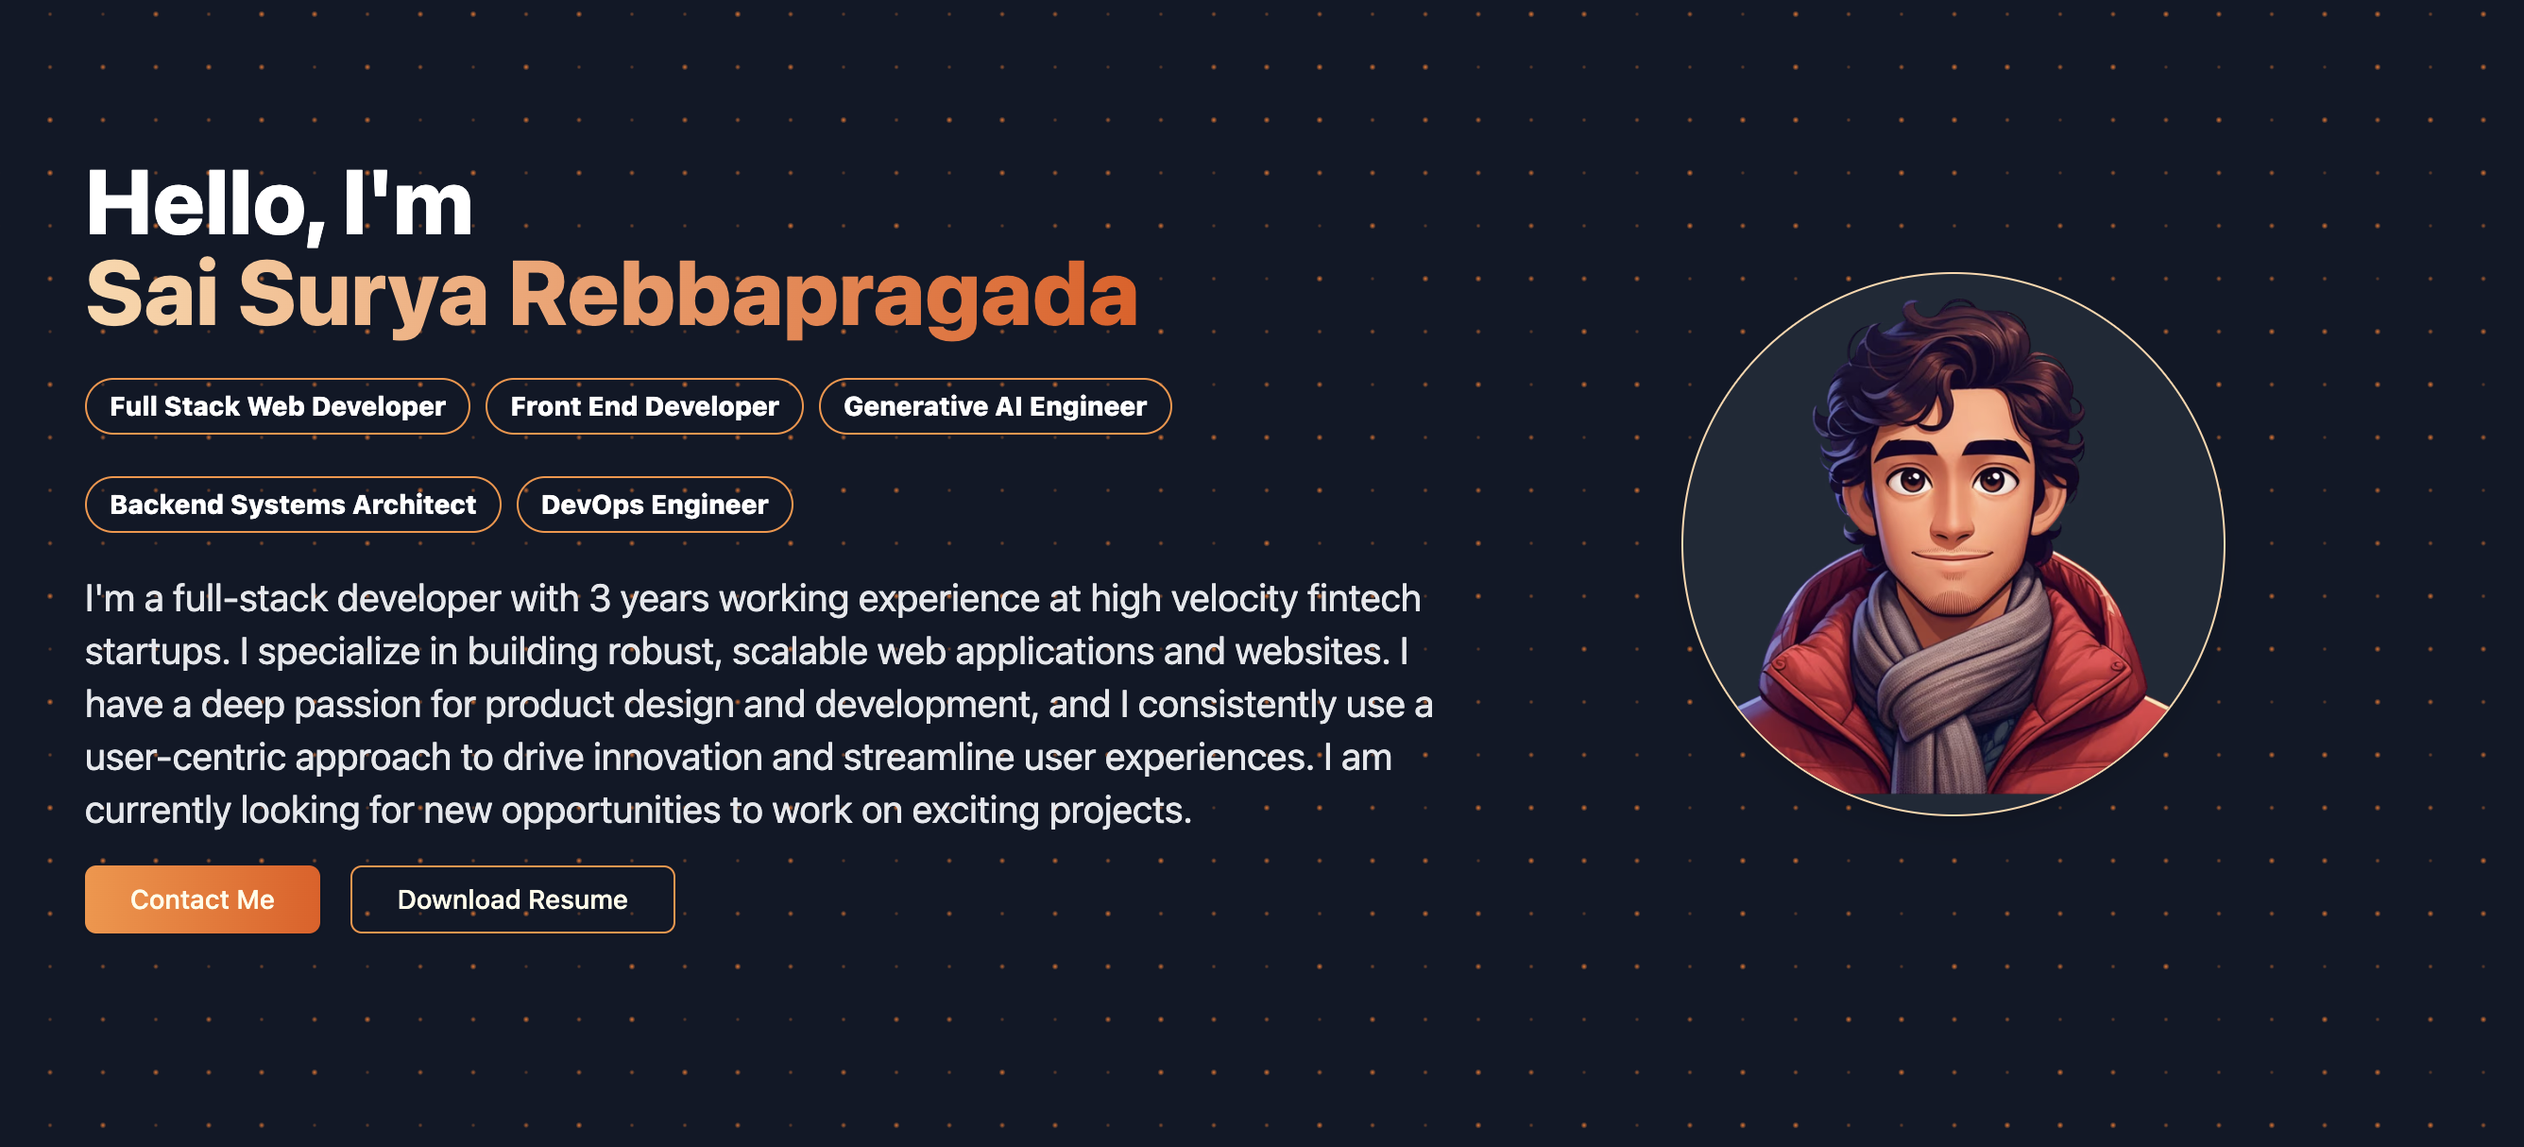
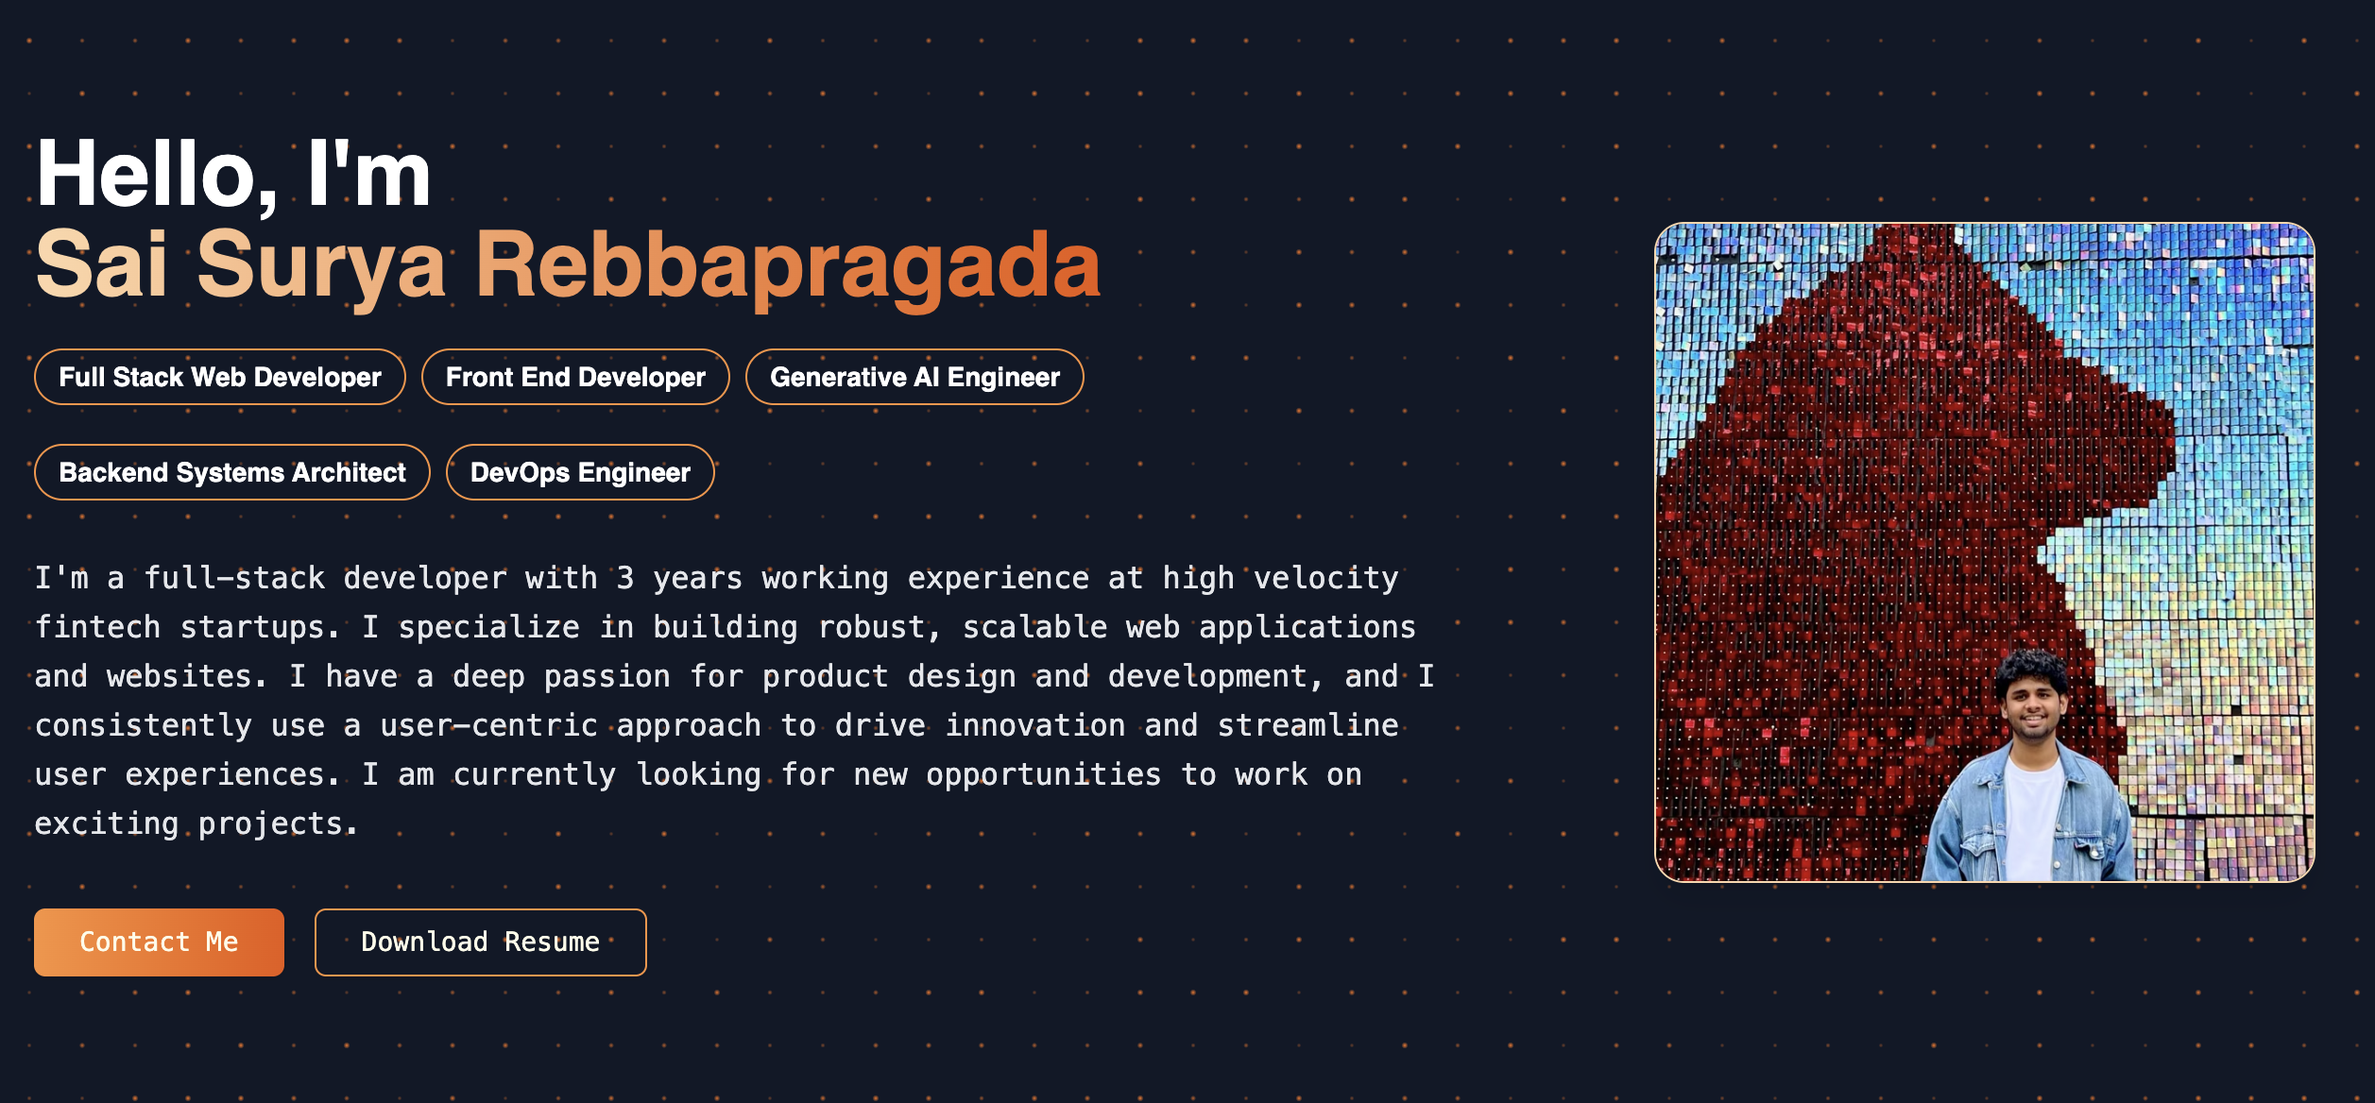
Add site configuration example, update RSS feed descriptions, enhance metadata for blog and notes pages, and improve sharing links

Changed region(s): [[0.0, 0.1233, 0.5895, 0.8938], [0.6826, 0.1849, 0.9928, 0.8014]]

diff --git a/src/lib/seo.ts b/src/lib/seo.ts
@@ -3,7 +3,7 @@ import { Content, ContentType } from '@/types/content';
 
 const SITE_URL = process.env.NEXT_PUBLIC_SITE_URL || 'https://rssmv.in';
 const SITE_NAME = "Sai Surya's Portfolio";
-const DEFAULT_AUTHOR = 'Sai Surya';
+const DEFAULT_AUTHOR = 'Sai Surya Madhav Rebbapragada';
 
 /**
  * Generate base metadata for the site
@@ -15,8 +15,8 @@ export function getBaseMetadata(): Metadata {
       default: SITE_NAME,
       template: `%s | ${SITE_NAME}`,
     },
-    description: "A portfolio website showcasing my projects and skills and experience.",
-    keywords: ['portfolio', 'software engineer', 'web development', 'projects'],
+    description: "AI Engineer portfolio showcasing production-ready GenAI applications, distributed systems, and full-stack projects. Specializing in LLMs, RAG, and cloud-native architectures.",
+    keywords: ['AI Engineer', 'GenAI', 'LLMs', 'Full-Stack Developer', 'Distributed Systems', 'Data Engineering', 'React', 'Python', 'Machine Learning', 'Cloud Architecture', 'Portfolio'],
     authors: [{ name: DEFAULT_AUTHOR }],
     creator: DEFAULT_AUTHOR,
     publisher: DEFAULT_AUTHOR,
@@ -31,10 +31,10 @@ export function getBaseMetadata(): Metadata {
       url: SITE_URL,
       siteName: SITE_NAME,
       title: SITE_NAME,
-      description: "A portfolio website showcasing my projects and skills and experience.",
+      description: "AI Engineer portfolio showcasing production-ready GenAI applications, distributed systems, and full-stack projects. Specializing in LLMs, RAG, and cloud-native architectures.",
       images: [
         {
-          url: `${SITE_URL}/_next/image?url=%2Fimages%2Fbanner.png&w=1200&q=90`,
+          url: `${SITE_URL}/images/banner.png`,
           width: 1200,
           height: 630,
           alt: SITE_NAME,
@@ -44,9 +44,9 @@ export function getBaseMetadata(): Metadata {
     twitter: {
       card: 'summary_large_image',
       title: SITE_NAME,
-      description: "A portfolio website showcasing my projects and skills and experience.",
-      creator: '@saisurya', // Update with your Twitter handle
-      images: [`${SITE_URL}/_next/image?url=%2Fimages%2Fbanner.png&w=1200&q=90`],
+      description: "AI Engineer portfolio showcasing production-ready GenAI applications, distributed systems, and full-stack projects. Specializing in LLMs, RAG, and cloud-native architectures.",
+      creator: '@surya_madhav_',
+      images: [`${SITE_URL}/images/banner.png`],
     },
     robots: {
       index: true,
@@ -101,7 +101,7 @@ export function generateContentMetadata(content: Content): Metadata {
       card: 'summary_large_image',
       title,
       description,
-      creator: '@saisurya', // Update with your Twitter handle
+      creator: '@surya_madhav_',
       images: image ? [image.startsWith('http') ? image : `${SITE_URL}${image}`] : undefined,
     },
     robots: {
@@ -262,33 +262,49 @@ export function generatePersonSchema(): object {
     name: DEFAULT_AUTHOR,
     url: SITE_URL,
     sameAs: [
-      'https://github.com/yourusername', // Update with your social links
-      'https://linkedin.com/in/yourusername',
-      'https://twitter.com/saisurya',
+      'https://github.com/surya-madhav',
+      'https://linkedin.com/in/saisuryarebbapragada',
+      'https://x.com/surya_madhav_',
     ],
-    jobTitle: 'Software Engineer',
+    jobTitle: 'AI Engineer | Data Systems Engineer',
     worksFor: {
       '@type': 'Organization',
-      name: 'Your Company', // Update with your company
+      name: 'Northeastern University',
     },
-    description: 'A passionate software engineer specializing in web development and creating innovative solutions.',
+    address: {
+      '@type': 'PostalAddress',
+      addressLocality: 'Seattle',
+      addressRegion: 'WA',
+      addressCountry: 'US',
+    },
+    description: 'AI Engineer with experience building production-ready GenAI applications using LLMs, embeddings, and agentic architectures. Specialized in full-stack development, distributed systems, and data engineering.',
     image: {
       '@type': 'ImageObject',
-      url: `${SITE_URL}/images/profile.jpg`, // Update with your profile image
+      url: `${SITE_URL}/images/ProfileRedJacket.png`,
       width: 400,
       height: 400,
     },
     alumniOf: {
       '@type': 'CollegeOrUniversity',
-      name: 'Your University', // Update with your university
+      name: 'Northeastern University',
     },
     knowsAbout: [
-      'Web Development',
-      'React',
-      'Next.js',
-      'TypeScript',
-      'Node.js',
-      'Software Engineering',
+      // Programming Languages
+      'Python', 'Java', 'JavaScript', 'TypeScript', 'C++', 'SQL',
+      // AI/ML Technologies
+      'LangChain', 'LangGraph', 'RAG Models', 'Vector Databases',
+      'LLMs', 'OpenAI', 'Gemini APIs', 'Agentic Architecture',
+      'Machine Learning', 'Deep Learning', 'Neural Networks',
+      // Web Technologies
+      'React', 'Next.js', 'Angular', 'Node.js', 'Spring Boot',
+      'FastAPI', 'Streamlit',
+      // Data & Cloud
+      'Snowflake', 'PostgreSQL', 'MongoDB', 'MySQL', 'Redis',
+      'AWS', 'GCP', 'Docker', 'Kubernetes', 'Terraform',
+      'Airflow', 'Kafka', 'Spark', 'DBT',
+      // Systems
+      'Distributed Systems', 'Microservices', 'CI/CD',
+      'High-Performance Computing', 'Big Data Systems',
     ],
   };
 }
@@ -302,7 +318,7 @@ export function generateWebsiteSchema(): object {
     '@type': 'WebSite',
     name: SITE_NAME,
     url: SITE_URL,
-    description: "A portfolio website showcasing my projects and skills and experience.",
+    description: "AI Engineer portfolio showcasing production-ready GenAI applications, distributed systems, and full-stack projects. Specializing in LLMs, RAG, and cloud-native architectures.",
     author: {
       '@type': 'Person',
       name: DEFAULT_AUTHOR,

diff --git a/src/app/blog/[slug]/page.tsx b/src/app/blog/[slug]/page.tsx
@@ -6,6 +6,7 @@ import ContentCard from '@/components/content/ContentCard';
 import Link from 'next/link';
 import Image from 'next/image';
 import { Metadata } from 'next';
+import { generateContentMetadata, generateStructuredData, generateBreadcrumbSchema } from '@/lib/seo';
 
 interface Props {
   params: {
@@ -26,21 +27,7 @@ export async function generateMetadata({ params }: Props): Promise<Metadata> {
     };
   }
   
-  return {
-    title: post.seo.title || post.title,
-    description: post.seo.description || post.summary,
-    keywords: post.seo.keywords,
-    openGraph: {
-      title: post.seo.title || post.title,
-      description: post.seo.description || post.summary,
-      images: post.seo.image ? [post.seo.image] : undefined,
-      type: 'article',
-      publishedTime: post.date,
-      modifiedTime: post.updated,
-      authors: post.author ? [post.author] : undefined,
-      tags: post.tags,
-    },
-  };
+  return generateContentMetadata(post);
 }
 
 export default async function BlogPostPage({ params }: Props) {
@@ -52,7 +39,28 @@ export default async function BlogPostPage({ params }: Props) {
   
   const relatedPosts = await getRelatedContent(post, 3);
   
+  // Generate structured data
+  const structuredData = generateStructuredData(post);
+  const breadcrumbData = generateBreadcrumbSchema([
+    { name: 'Home', url: '/' },
+    { name: 'Blog', url: '/blog' },
+    { name: post.title, url: `/blog/${post.slug}` },
+  ]);
+  
   return (
+    <>
+      <script
+        type="application/ld+json"
+        dangerouslySetInnerHTML={{
+          __html: JSON.stringify(structuredData),
+        }}
+      />
+      <script
+        type="application/ld+json"
+        dangerouslySetInnerHTML={{
+          __html: JSON.stringify(breadcrumbData),
+        }}
+      />
     <article className="container mx-auto px-4 sm:px-6 lg:px-8 max-w-4xl py-24">
       {/* Breadcrumb */}
       <nav className="mb-8">
@@ -121,7 +129,7 @@ export default async function BlogPostPage({ params }: Props) {
         <h3 className="text-lg font-medium text-gray-400 mb-4">Share this post</h3>
         <div className="flex gap-4">
           <a
-            href={`https://twitter.com/intent/tweet?text=${encodeURIComponent(post.title)}&url=${encodeURIComponent(`${process.env.NEXT_PUBLIC_SITE_URL || 'https://yoursite.com'}/blog/${post.slug}`)}`}
+            href={`https://twitter.com/intent/tweet?text=${encodeURIComponent(post.title)}&url=${encodeURIComponent(`${process.env.NEXT_PUBLIC_SITE_URL || 'https://rssmv.in'}/blog/${post.slug}`)}`}
             target="_blank"
             rel="noopener noreferrer"
             className="px-4 py-2 bg-gray-800/50 hover:bg-gray-800 text-gray-300 hover:text-white rounded-md transition-all duration-200"
@@ -129,7 +137,7 @@ export default async function BlogPostPage({ params }: Props) {
             Twitter
           </a>
           <a
-            href={`https://www.linkedin.com/sharing/share-offsite/?url=${encodeURIComponent(`${process.env.NEXT_PUBLIC_SITE_URL || 'https://yoursite.com'}/blog/${post.slug}`)}`}
+            href={`https://www.linkedin.com/sharing/share-offsite/?url=${encodeURIComponent(`${process.env.NEXT_PUBLIC_SITE_URL || 'https://rssmv.in'}/blog/${post.slug}`)}`}
             target="_blank"
             rel="noopener noreferrer"
             className="px-4 py-2 bg-gray-800/50 hover:bg-gray-800 text-gray-300 hover:text-white rounded-md transition-all duration-200"
@@ -181,5 +189,6 @@ export default async function BlogPostPage({ params }: Props) {
         </Link>
       </div>
     </article>
+    </>
   );
 }

diff --git a/src/app/projects/page.tsx b/src/app/projects/page.tsx
@@ -4,14 +4,14 @@ import { Metadata } from 'next';
 
 export const metadata: Metadata = {
   title: 'Projects',
-  description: 'A showcase of my software development projects, featuring web applications, tools, and open-source contributions.',
-  keywords: ['projects', 'portfolio', 'web development', 'software engineering', 'React', 'Next.js'],
+  description: 'Explore my AI and software engineering projects featuring GenAI applications, distributed systems, cloud infrastructure automation, and full-stack development.',
+  keywords: ['AI projects', 'GenAI applications', 'distributed systems', 'cloud infrastructure', 'full-stack development', 'LLMs', 'RAG', 'machine learning', 'portfolio'],
   alternates: {
     canonical: 'https://rssmv.in/projects',
   },
   openGraph: {
     title: 'Projects | Sai Surya\'s Portfolio',
-    description: 'Explore my software development projects showcasing various technologies and problem-solving approaches.',
+    description: 'Explore my AI and software engineering projects featuring GenAI applications, distributed systems, cloud infrastructure automation, and full-stack development.',
     url: 'https://rssmv.in/projects',
     type: 'website',
   },
@@ -35,8 +35,8 @@ export default async function ProjectsListingPage() {
           Projects
         </h1>
         <p className="text-lg text-gray-300 max-w-3xl">
-          A collection of projects I&apos;ve worked on, showcasing different technologies 
-          and problem-solving approaches.
+          A collection of AI and software engineering projects showcasing GenAI applications, 
+          distributed systems, cloud infrastructure, and full-stack development.
         </p>
       </header>
       

diff --git a/src/app/notes/page.tsx b/src/app/notes/page.tsx
@@ -7,14 +7,14 @@ import { Metadata } from 'next';
 
 export const metadata: Metadata = {
   title: 'Notes',
-  description: 'Quick thoughts, tips, and learnings from my software development journey. Code snippets, best practices, and technical insights.',
-  keywords: ['notes', 'development tips', 'coding', 'technical insights', 'programming'],
+  description: 'Quick technical notes and learnings from AI engineering, distributed systems, and full-stack development. Tips on LLMs, cloud architecture, and best practices.',
+  keywords: ['technical notes', 'AI engineering', 'LLMs', 'distributed systems', 'cloud architecture', 'development tips', 'best practices', 'GenAI', 'machine learning'],
   alternates: {
     canonical: 'https://rssmv.in/notes',
   },
   openGraph: {
     title: 'Notes | Sai Surya\'s Portfolio',
-    description: 'Quick thoughts, tips, and learnings from my software development journey.',
+    description: 'Quick technical notes and learnings from AI engineering, distributed systems, and full-stack development.',
     url: 'https://rssmv.in/notes',
     type: 'website',
   },
@@ -46,8 +46,8 @@ export default async function NotesPage() {
           Notes
         </h1>
         <p className="text-lg text-gray-300 max-w-3xl">
-          Quick thoughts, tips, and learnings from my development journey. 
-          A collection of insights and discoveries I&apos;ve gathered along the way.
+          Quick technical notes and learnings from AI engineering, distributed systems, 
+          and full-stack development. Tips on LLMs, cloud architecture, and best practices.
         </p>
       </header>
       

diff --git a/src/app/blog/page.tsx b/src/app/blog/page.tsx
@@ -7,14 +7,14 @@ import { Metadata } from 'next';
 
 export const metadata: Metadata = {
   title: 'Blog',
-  description: 'Thoughts, tutorials, and insights on software development and technology. Deep dives into problems I\'ve solved and lessons I\'ve learned.',
-  keywords: ['blog', 'tutorials', 'software development', 'technology', 'programming'],
+  description: 'Technical insights on AI engineering, LLMs, distributed systems, and software development. Deep dives into GenAI architectures and cloud-native solutions.',
+  keywords: ['AI blog', 'GenAI tutorials', 'LLMs', 'distributed systems', 'cloud architecture', 'machine learning', 'software engineering', 'technical insights', 'AI engineering'],
   alternates: {
     canonical: 'https://rssmv.in/blog',
   },
   openGraph: {
     title: 'Blog | Sai Surya\'s Portfolio',
-    description: 'Thoughts, tutorials, and insights on software development and technology.',
+    description: 'Technical insights on AI engineering, LLMs, distributed systems, and software development.',
     url: 'https://rssmv.in/blog',
     type: 'website',
   },
@@ -50,8 +50,8 @@ export default async function BlogPage() {
           Blog
         </h1>
         <p className="text-lg text-gray-300 max-w-3xl">
-          Thoughts, tutorials, and insights on software development and technology. 
-          Deep dives into problems I&apos;ve solved and lessons I&apos;ve learned.
+          Technical insights on AI engineering, LLMs, distributed systems, and software development. 
+          Deep dives into GenAI architectures and cloud-native solutions.
         </p>
       </header>
       

diff --git a/src/app/components/HeroSection.tsx b/src/app/components/HeroSection.tsx
@@ -30,18 +30,18 @@ const HeroSection = () => {
                 <div className="col-span-5">
                     <div className="w-full h-full flex items-center justify-center place-self-center mt-4 lg:mt-0 mb-6">
                         <Image
-                            className='rounded-full w-72 h-72 bg-gray-800 shadow-lg border border-orange-200'
+                            className='rounded-2xl w-72 h-72 bg-gray-800 shadow-lg border border-orange-200'
                             src="/images/ProfileRedJacket.png"
                             alt="Hero Image"
-                            width={288}
-                            height={288}
+                            width={350}
+                            height={350}
                             priority
                             quality={90}
-                            sizes="(max-width: 768px) 288px, 288px"
+                            sizes="(max-width: 768px) 350px, 350px"
                             style={{ 
                                 objectFit: "cover",
-                                width: '288px',
-                                height: '288px'
+                                width: '350px',
+                                height: '350px'
                             }}
                         />
                     </div>

diff --git a/src/app/feed.xml/route.ts b/src/app/feed.xml/route.ts
@@ -1,7 +1,7 @@
 import { getAllContent } from '@/lib/content';
 import { generateRSSFeed } from '@/lib/feed';
 
-const SITE_URL = process.env.NEXT_PUBLIC_SITE_URL || 'https://yoursite.com';
+const SITE_URL = process.env.NEXT_PUBLIC_SITE_URL || 'https://rssmv.in';
 
 export async function GET() {
   const content = await getAllContent(undefined, {
@@ -13,8 +13,8 @@ export async function GET() {
   
   const feed = generateRSSFeed(
     content,
-    'Portfolio - All Content',
-    'Latest projects, notes, and blog posts from my portfolio',
+    "Sai Surya's Portfolio - AI & Software Engineering Insights",
+    'Latest projects, technical insights, and learnings in AI engineering, GenAI, distributed systems, and full-stack development.',
     `${SITE_URL}/feed.xml`,
     SITE_URL
   );

diff --git a/src/lib/feed.ts b/src/lib/feed.ts
@@ -26,7 +26,7 @@ export function generateRSSFeed(
       <title>${escapeXml(item.title)}</title>
       <link>${url}</link>
       <guid isPermaLink="true">${url}</guid>
-      <description>${escapeXml(item.excerpt)}</description>
+      <description>${escapeXml(item.summary)}</description>
       <pubDate>${new Date(item.date).toUTCString()}</pubDate>
       ${item.author ? `<author>${escapeXml(item.author)}</author>` : ''}
       ${item.categories.map(cat => `<category>${escapeXml(cat)}</category>`).join('')}
